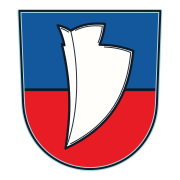
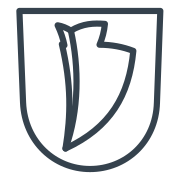
Use a monochrome crest and name the app in navigation

diff --git a/app/styles.css b/app/styles.css
@@ -1417,7 +1417,15 @@ button:focus-visible, a:focus-visible, input:focus-visible, select:focus-visible
 .auth-page { min-height:100dvh; display:grid; place-items:center; padding:1.25rem; background:var(--main-gradient,linear-gradient(180deg,#36D1DC,#5B86E5)); }
 .auth-card { width:min(100%,430px); padding:clamp(1.25rem,5vw,2rem); border:1px solid var(--ui-border); border-radius:24px; background:var(--overlay-surface); color:var(--ui-text); box-shadow:var(--ui-shadow-strong); -webkit-backdrop-filter:blur(18px); backdrop-filter:blur(18px); }
 .auth-brand { display:flex; align-items:center; gap:.75rem; margin-bottom:1.7rem; }
-.auth-brand-mark { flex:none; }
+.app-crest {
+  display:inline-block;
+  width:36px;
+  height:36px;
+  flex:none;
+  background:currentColor;
+  mask:url("/lhota-icon.svg") center / contain no-repeat;
+}
+.app-crest.auth-brand-mark { width:60px; height:60px; }
 .auth-brand strong { display:block; font-size:1.15rem; line-height:1.2; }
 .auth-brand-tagline { display:block; margin-top:.15rem; color:var(--ui-muted); font-size:.9rem; font-weight:650; }
 .auth-heading h1 { margin:0; font-size:clamp(1.7rem,7vw,2.1rem); }
@@ -5492,7 +5500,8 @@ textarea::placeholder {
 }
 
 .site-sidebar-identity { display:flex; align-items:center; gap:.65rem; min-width:0; }
-.site-sidebar-identity img { flex:none; }
+.site-sidebar-identity > div { min-width:0; }
+.site-sidebar-name { display:block; line-height:1.2; }
 .site-sidebar-subtitle {
   display: block;
   margin-top: .15rem;

diff --git a/app/components/Sidebar.tsx b/app/components/Sidebar.tsx
@@ -1,7 +1,6 @@
 "use client";
 
 import { useEffect, useRef, useState } from "react";
-import Image from "next/image";
 import { createPortal } from "react-dom";
 import { UserRound, X } from "lucide-react";
 import { onAuthStateChanged } from "firebase/auth";
@@ -88,10 +87,10 @@ export default function Sidebar({ visible, onClose }: SidebarProps) {
       <nav ref={panel} className="site-sidebar-panel" onClick={event => event.stopPropagation()} aria-label="Hlavní navigace">
         <div className="site-sidebar-header">
           <div className="site-sidebar-identity">
-            <Image src="/lhota-icon.svg" width={36} height={36} alt="" />
+            <span className="app-crest" aria-hidden="true" />
             <div>
-              <span>Navigace</span>
-              <small className="site-sidebar-subtitle">{nickname || email || "Dolní Lhota v pohybu"}</small>
+              <span className="site-sidebar-name">Dolní Lhota v pohybu</span>
+              {(nickname || email) && <small className="site-sidebar-subtitle">{nickname || email}</small>}
             </div>
           </div>
           <button type="button" className="site-sidebar-icon-button" onClick={onClose} aria-label="Zavřít navigaci">

diff --git a/app/login/page.tsx b/app/login/page.tsx
@@ -2,7 +2,6 @@
 
 import { FormEvent, useState } from "react";
 import { ArrowLeft, KeyRound, LogIn, UserPlus } from "lucide-react";
-import Image from "next/image";
 import { useRouter } from "next/navigation";
 import { sendPasswordResetEmail, signInWithCustomToken, signInWithEmailAndPassword } from "firebase/auth";
 import { auth } from "../lib/firebase";
@@ -128,7 +127,7 @@ export default function LoginPage() {
     <main className="auth-page">
       <section className="auth-card" aria-labelledby="auth-title">
         <div className="auth-brand">
-          <Image className="auth-brand-mark" src="/lhota-icon.svg" width={60} height={60} alt="" priority />
+          <span className="app-crest auth-brand-mark" aria-hidden="true" />
           <div>
             <strong>Dolní Lhota</strong>
             <span className="auth-brand-tagline">v pohybu</span>

diff --git a/public/sw.js b/public/sw.js
@@ -1,4 +1,4 @@
-const CACHE_NAME = "lhota-shell-v3";
+const CACHE_NAME = "lhota-shell-v4";
 const SHELL_URLS = ["/offline.html", "/lhota-icon.svg"];
 
 self.addEventListener("install", event => {
